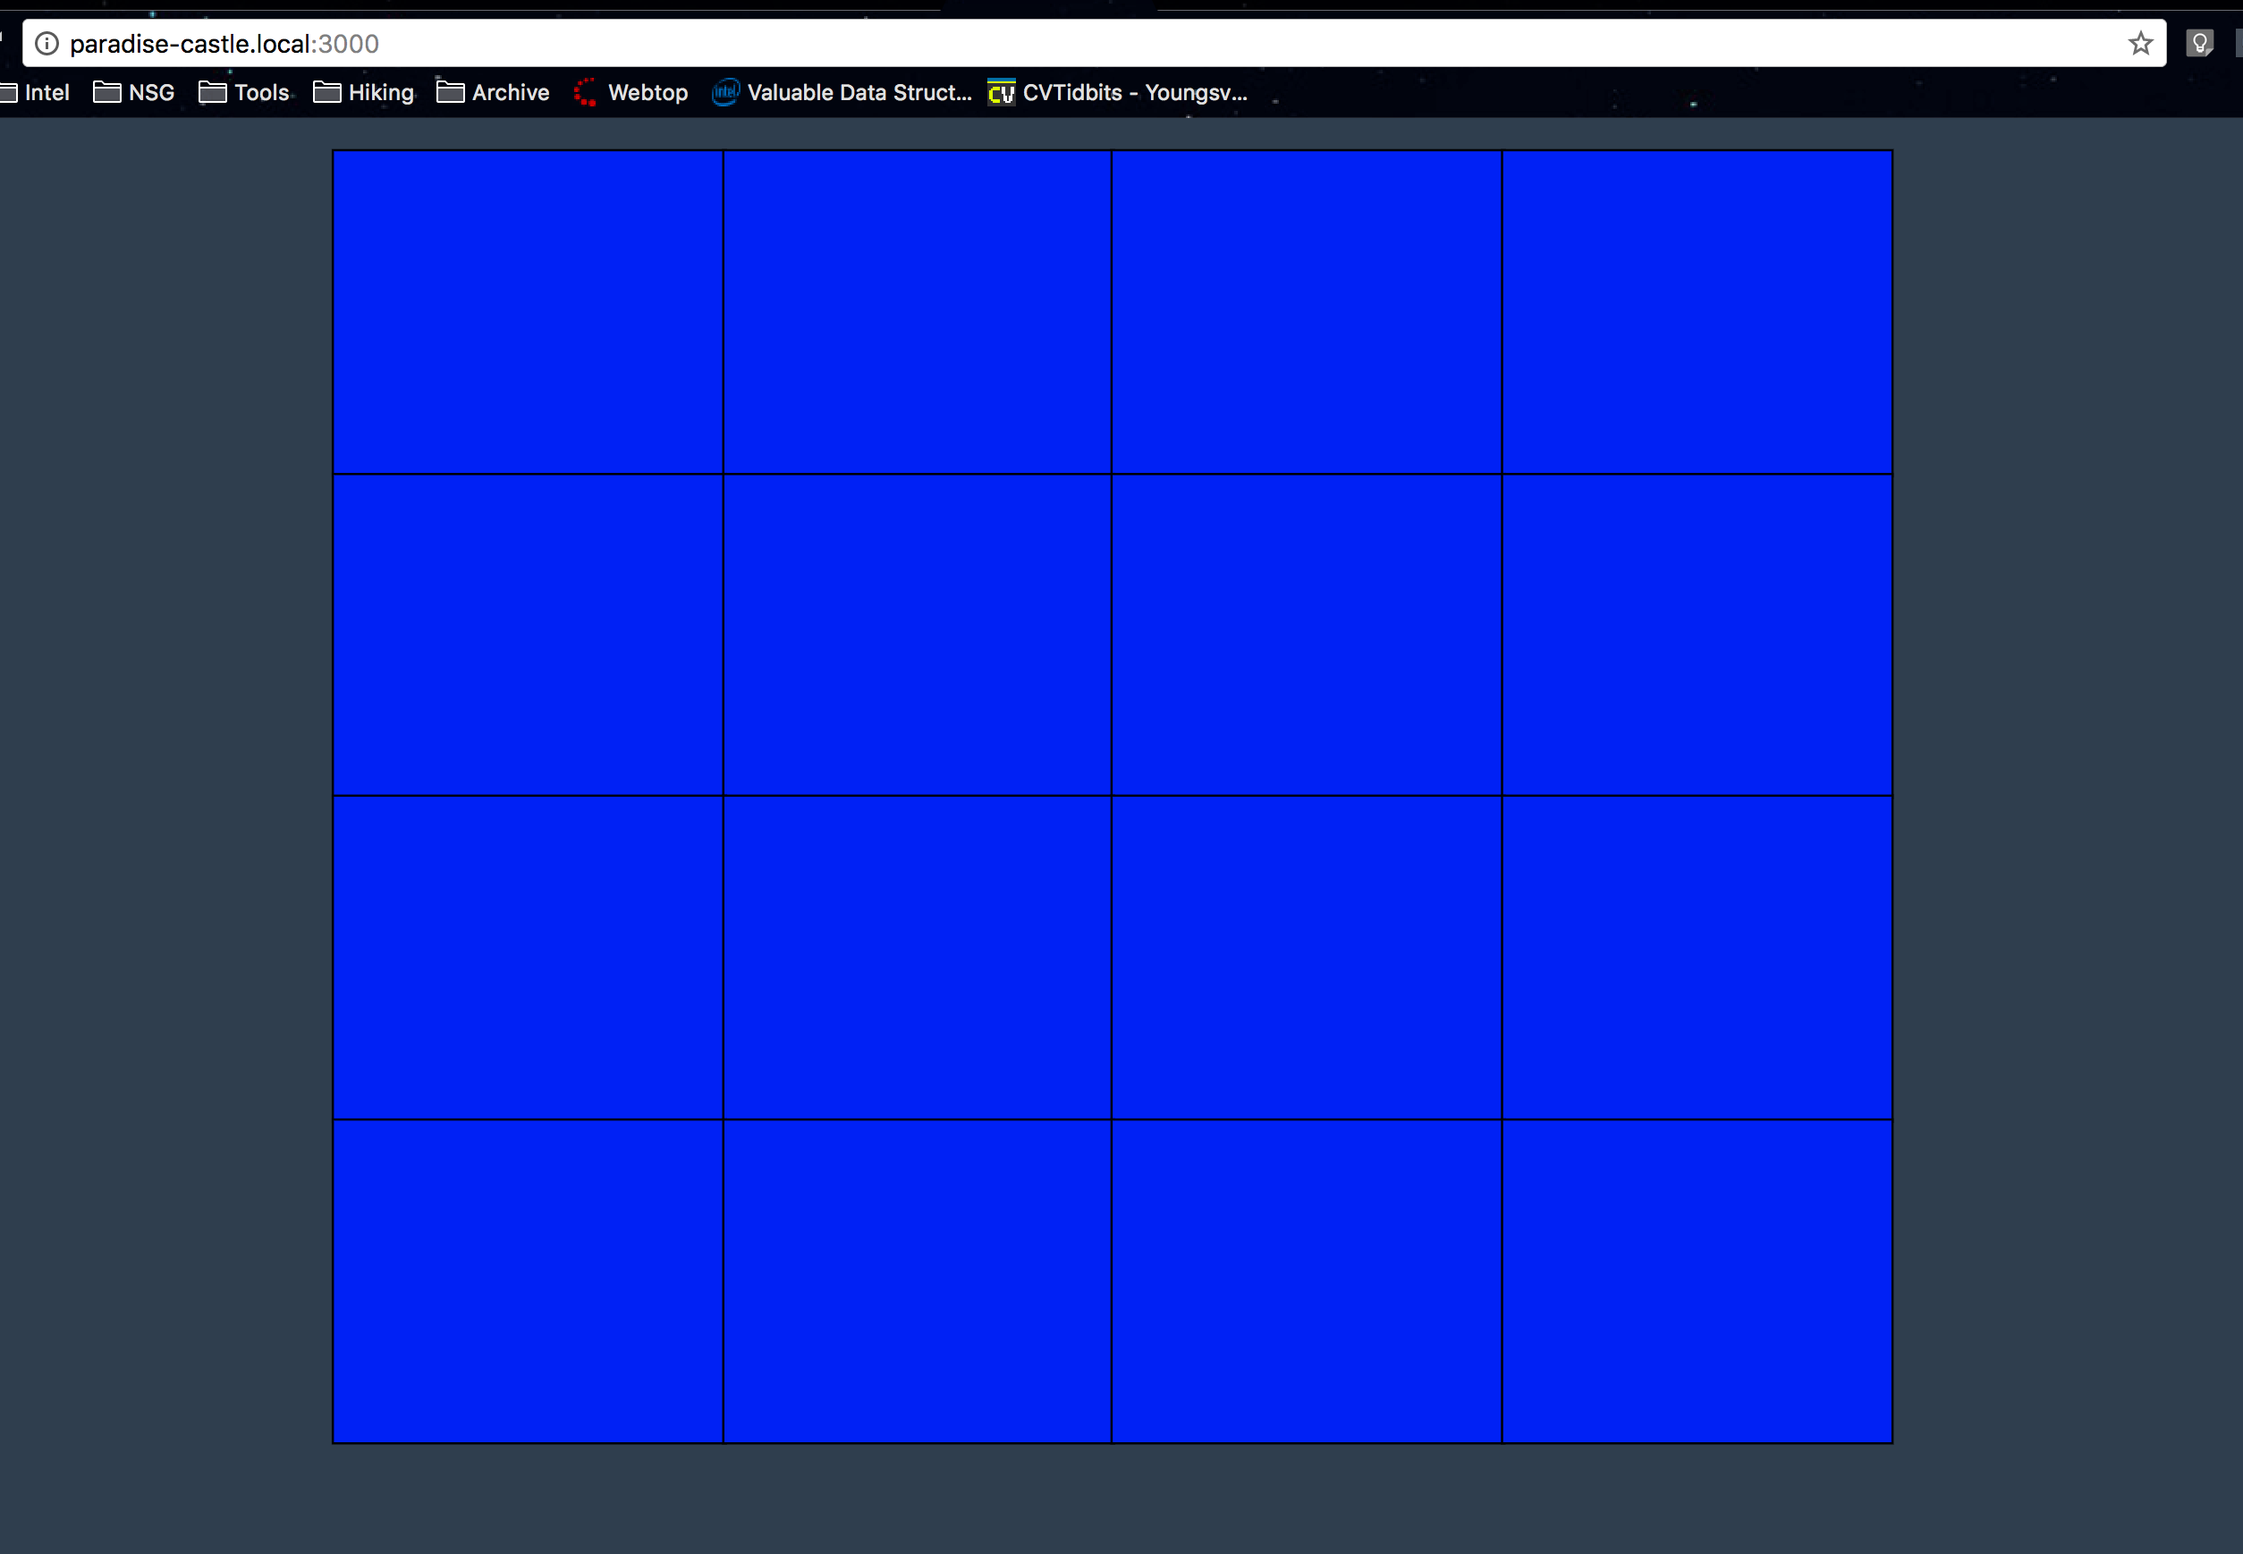
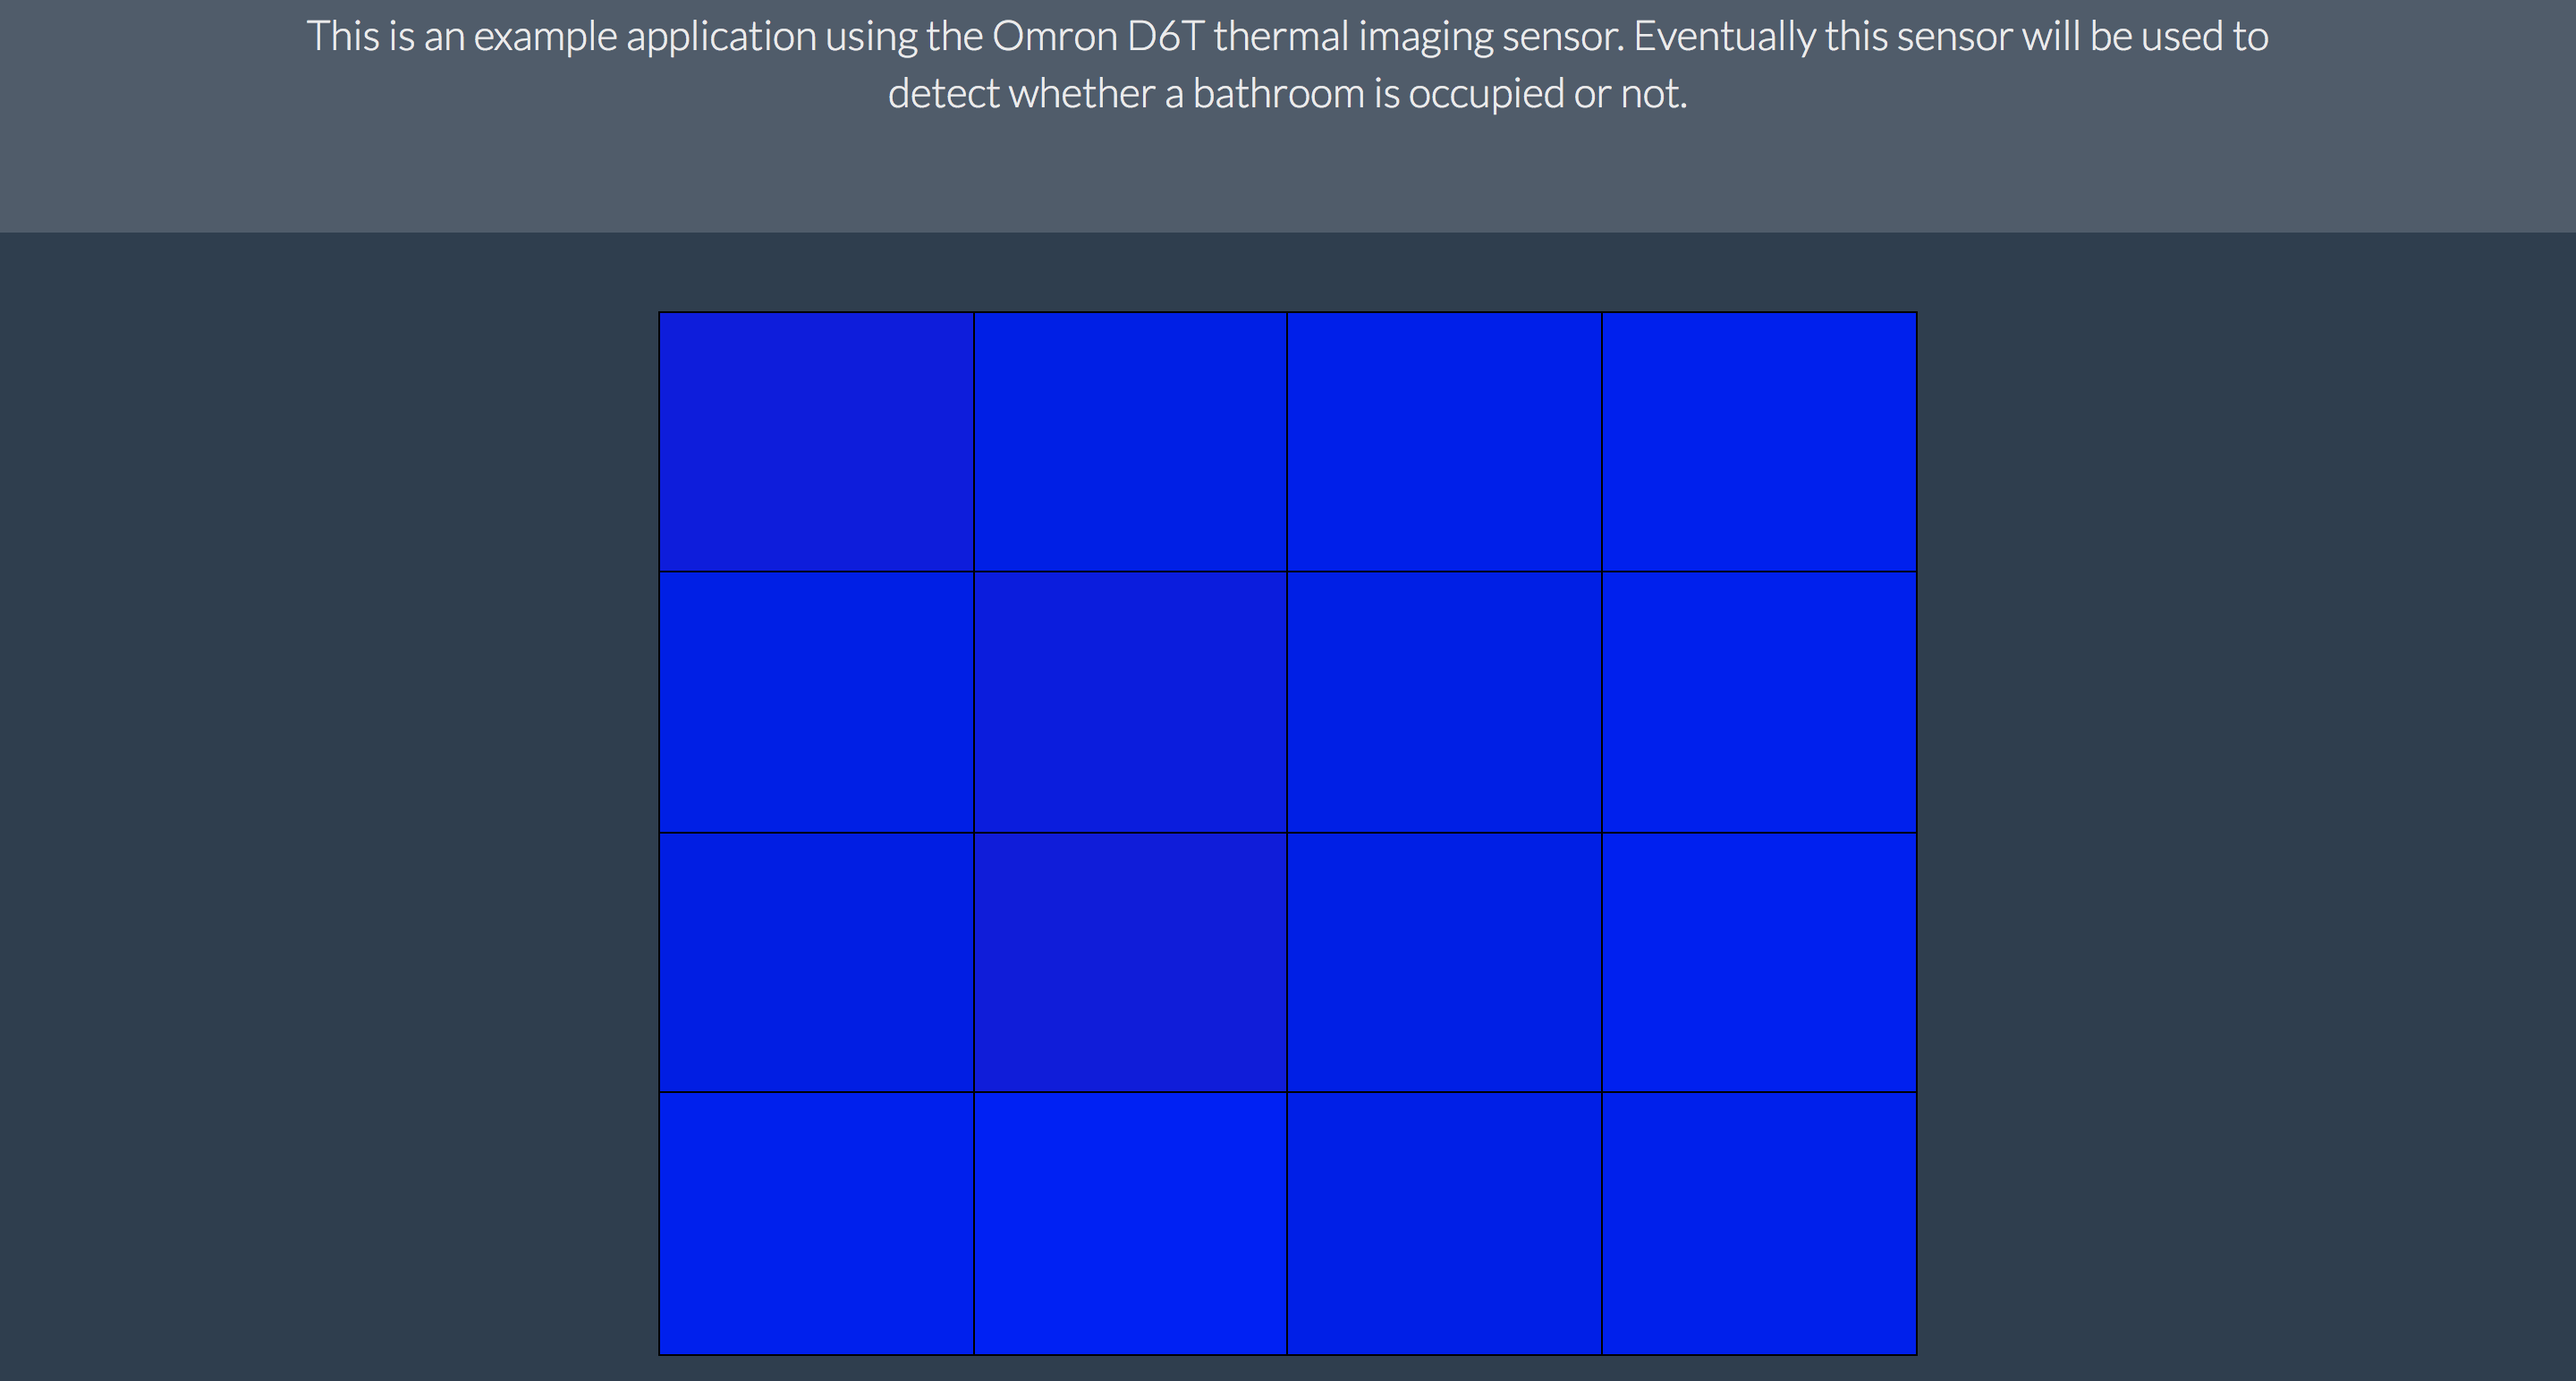
Added jumbotron to main page

diff --git a/bathroom/client/bathroom.html b/bathroom/client/bathroom.html
@@ -8,7 +8,7 @@
     <!-- socket communication -->
     <script src="/socket.io/socket.io.js"></script>
 
-    <!-- javascript used for generating the line chart -->
+    <!-- javascript used for generating thermal image -->
     <script src="bathroom.js"></script>
 
     <!-- bootstrap -->
@@ -37,10 +37,23 @@
 
 <body>
 
-    <!-- Line Chart Control Buttons -->
+    <!-- Jumbotron Header -->
+    <div class="jumbotron">
+        <div class="container">
+            <h1>Paradise Castle Human Presence Detection</h1>
+            <br><br>
+            <p>
+                This is an example application using the Omron D6T thermal imaging sensor. Eventually this sensor
+                will be used to detect whether a bathroom is occupied or not.
+            </p>
+        </div>
+    </div>
+
+
+    <!-- Thermal Image -->
     <div class="container thermal-image">
 
-        <!-- Zoom and Pan Buttons -->
+        <!-- Row of 4 pixels -->
         <div class="row pixel-row">
             <div class="col-sm-3 pixel" id="px0"></div>
             <div class="col-sm-3 pixel" id="px1"></div>
@@ -48,7 +61,7 @@
             <div class="col-sm-3 pixel" id="px3"></div>
         </div>
 
-        <!-- Zoom and Pan Buttons -->
+        <!-- Row of 4 pixels -->
         <div class="row pixel-row">
             <div class="col-sm-3 pixel" id="px4"></div>
             <div class="col-sm-3 pixel" id="px5"></div>
@@ -56,7 +69,7 @@
             <div class="col-sm-3 pixel" id="px7"></div>
         </div>
 
-        <!-- Zoom and Pan Buttons -->
+        <!-- Row of 4 pixels -->
         <div class="row pixel-row">
             <div class="col-sm-3 pixel" id="px8"></div>
             <div class="col-sm-3 pixel" id="px9"></div>
@@ -64,7 +77,7 @@
             <div class="col-sm-3 pixel" id="px11"></div>
         </div>
 
-        <!-- Zoom and Pan Buttons -->
+        <!-- Row of 4 pixels -->
         <div class="row pixel-row">
             <div class="col-sm-3 pixel" id="px12"></div>
             <div class="col-sm-3 pixel" id="px13"></div>

diff --git a/README.md b/README.md
@@ -15,6 +15,8 @@ To run the example Omron D6T application, perform the following actions:
   </ul>
 </ul>
 
-Here are a few screenshots of the app in action!
+Here is a screenshot when I'm far away from the sensor.
 ![ScreenShot](documentation/images/noperson.png)
+
+Here is a screenshot when I'm standing near the sensor.
 ![ScreenShot](documentation/images/person.png)
